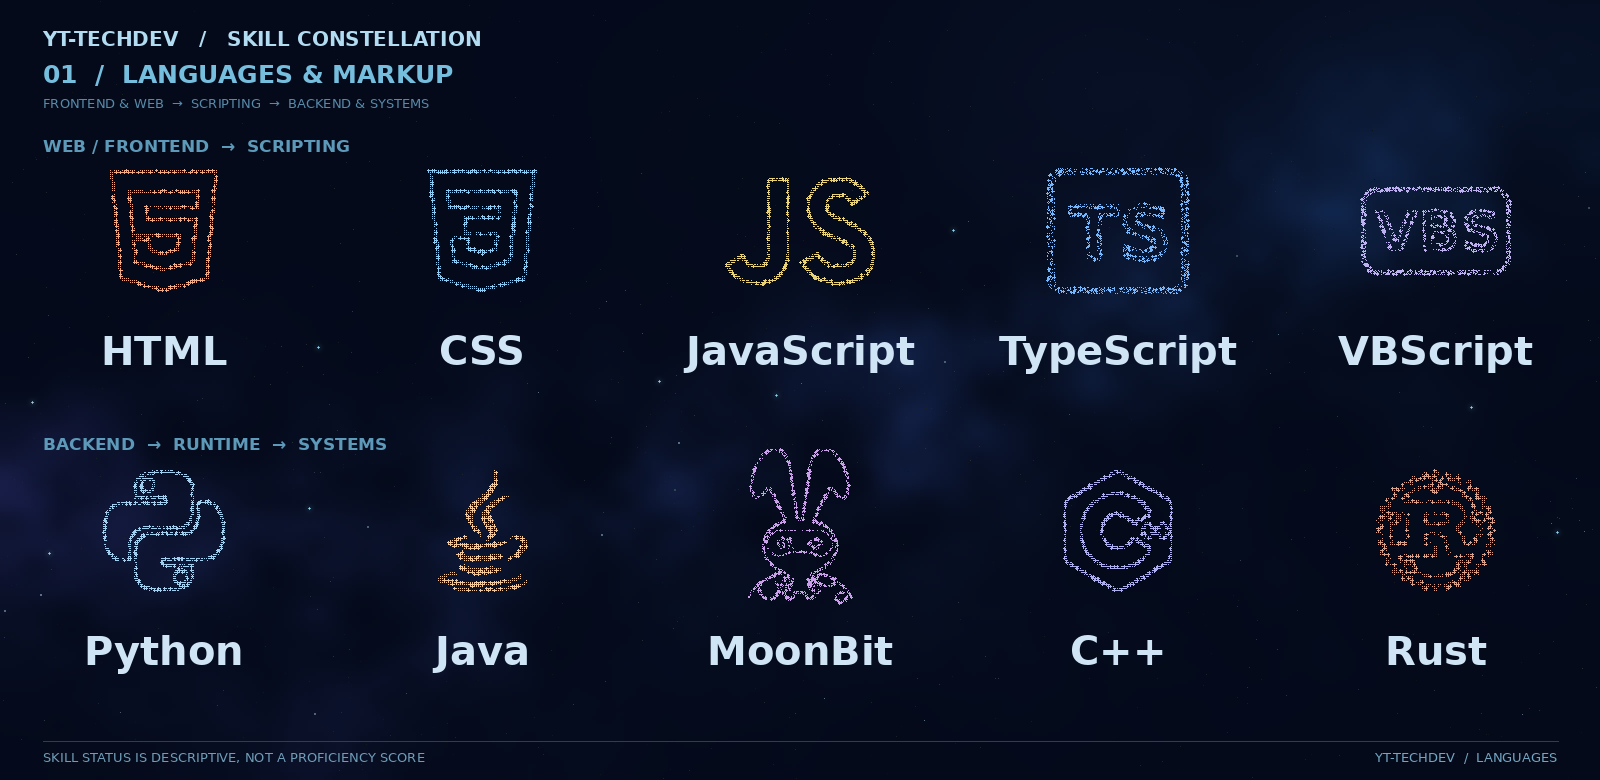
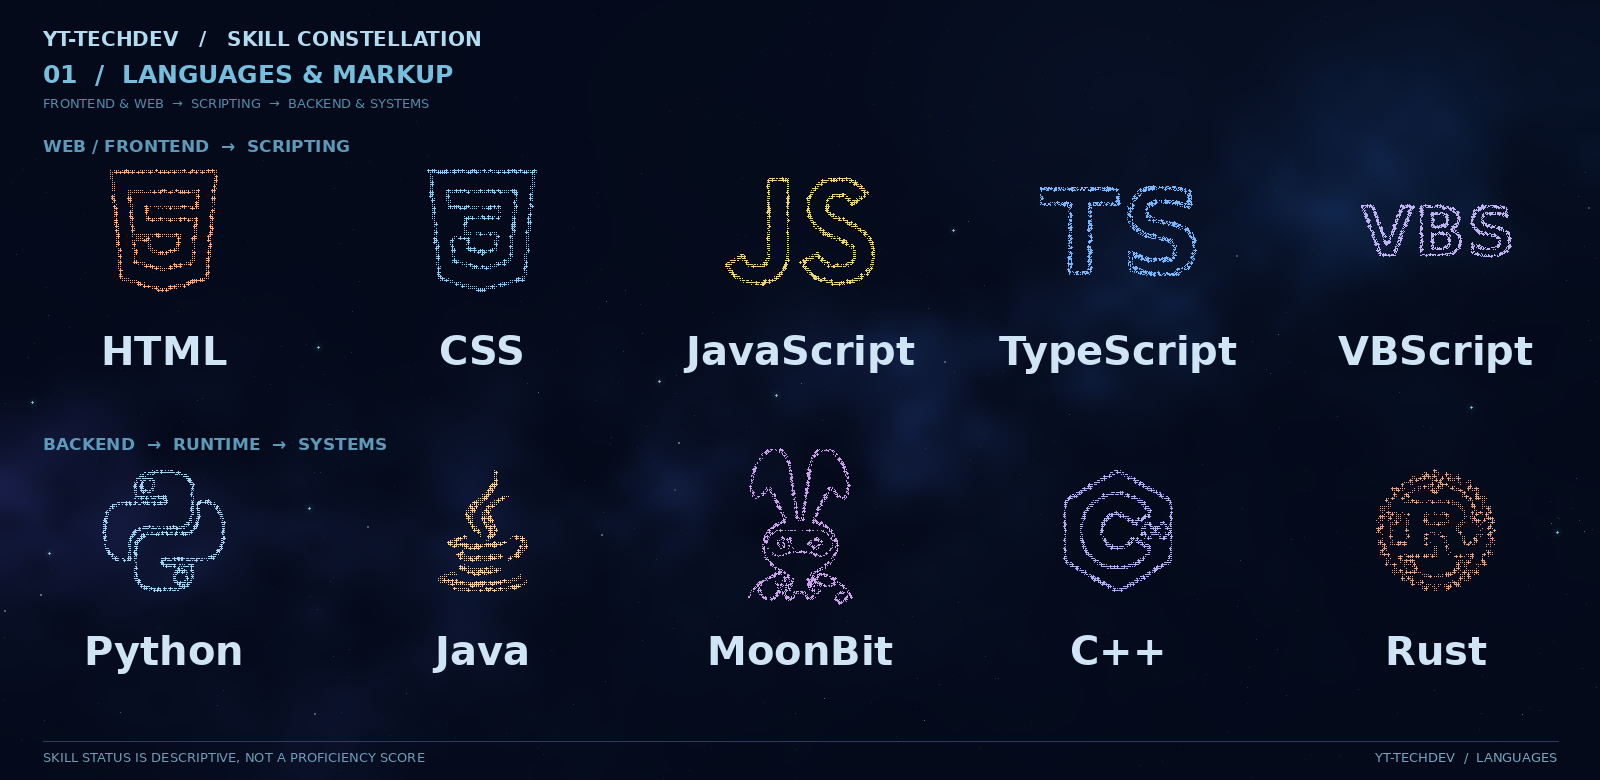
style(profile): remove TypeScript and VBScript enclosing frames

Changed region(s): [[0.6562, 0.2154, 0.75, 0.3692], [0.8438, 0.2462, 0.9375, 0.3692]]

diff --git a/scripts/render_sections.py b/scripts/render_sections.py
@@ -7,13 +7,16 @@ snapshot. All renders are offline, deterministic and README-compatible.
 from __future__ import annotations
 
 import argparse
+import io
 import json
 import math
 import random
+import xml.etree.ElementTree as ET
 from pathlib import Path
 
-from PIL import Image, ImageChops, ImageDraw, ImageFilter
-from render_constellation import font, sample_outline
+import cairosvg
+from PIL import Image, ImageChops, ImageDraw, ImageFilter, ImageOps
+from render_constellation import font, glyph_svg, sample_outline
 
 ROOT = Path(__file__).resolve().parents[1]
 WIDTH = 1200
@@ -239,7 +242,37 @@ def sample_official_moonbit(count, rng):
     return [choices[i % len(choices)] for i in range(count)]
 
 
-def prepared_nodes(section_id, cfg, originals, extras):
+def sample_language_wordmark(key, originals, extras, count):
+    """Keep the existing TS/VBS letters, without their enclosing rectangle."""
+    svg = ET.fromstring(glyph_svg(key, originals, extras))
+    frames = svg.findall("{http://www.w3.org/2000/svg}rect")
+    if len(frames) != 1:
+        raise ValueError(f"Expected one enclosing frame for {key}")
+    svg.remove(frames[0])
+    binary = cairosvg.svg2png(bytestring=ET.tostring(svg),
+                             output_width=560, output_height=560)
+    alpha = Image.open(io.BytesIO(binary)).convert("RGBA").getchannel("A")
+    bounds = alpha.getbbox()
+    if bounds is None:
+        raise ValueError(f"Empty wordmark: {key}")
+    alpha = alpha.crop(bounds)
+    alpha.thumbnail((150, 121), Image.Resampling.LANCZOS)
+    if key == "typescript":
+        alpha = alpha.filter(ImageFilter.GaussianBlur(.85))
+    alpha = ImageOps.expand(alpha, border=6, fill=0)
+    edge = ImageChops.subtract(alpha, alpha.filter(ImageFilter.MinFilter(5)))
+    w, h = alpha.size
+    pixels = edge.load()
+    choices = [(x - w / 2, y - h / 2) for y in range(h) for x in range(w)
+               if pixels[x, y] > 30]
+    if len(choices) < 100:
+        raise ValueError(f"Incomplete wordmark: {key}")
+    # Isolated sampling leaves all subsequent icons' particle RNG untouched.
+    random.Random(SEED + sum(map(ord, key))).shuffle(choices)
+    return [choices[i % len(choices)] for i in range(count)]
+
+
+def prepared_nodes(section_id, cfg, originals, extras, *, wordmarks=True):
     rng = random.Random(SEED + len(section_id) * 23)
     nodes = []
     for i, (key, label, category, color, tag) in enumerate(cfg["icons"]):
@@ -248,7 +281,11 @@ def prepared_nodes(section_id, cfg, originals, extras):
         if key == "moonbit":
             samples = sample_official_moonbit(count, rng)
         else:
+            # Consume the original sampling RNG even when replacing a wordmark;
+            # later icons must retain their exact particle placement and pulse.
             samples = sample_outline(key, originals, extras, count, rng)
+        if wordmarks and section_id == "languages" and key in ("typescript", "vbscript"):
+            samples = sample_language_wordmark(key, originals, extras, count)
         if key == "typescript" and section_id == "languages":
             # The TS glyph previously appeared smaller; round its raster edges
             # in the source sampler and normalize optical scale with label clearance.
@@ -365,7 +402,12 @@ def render_section(section_id, original, extra, frames):
     if section_id == "languages":
         # One palette keeps static nebula/dust pixels identical in every frame.
         # No error-diffusion noise, extra background motion or palette shimmer.
-        palette = poster.quantize(colors=256, method=Image.Quantize.MEDIANCUT)
+        # Retain the approved framed poster only as a color-table reference;
+        # rebuilding a palette from the new letters would recolor other pixels.
+        palette_nodes = prepared_nodes(section_id, cfg, original, extra["paths"],
+                                       wordmarks=False)
+        palette_poster = render_frame(section_id, cfg, bg, palette_nodes, 0, freeze=True)
+        palette = palette_poster.quantize(colors=256, method=Image.Quantize.MEDIANCUT)
         animation = [frame.quantize(palette=palette, dither=Image.Dither.NONE)
                      for frame in animation]
     animation[0].save(
